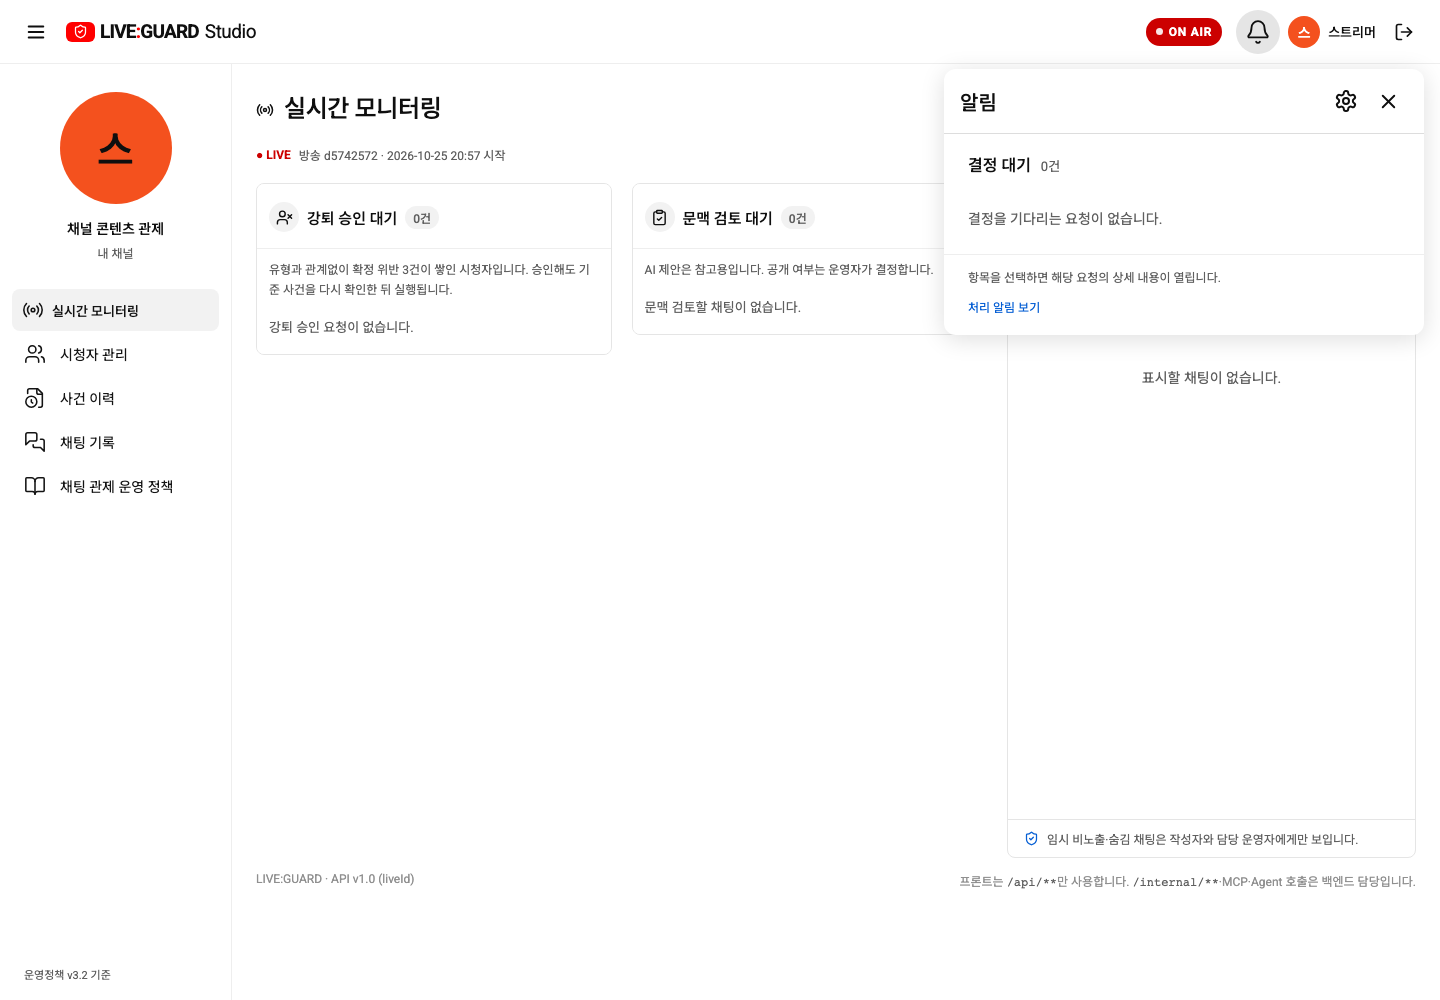
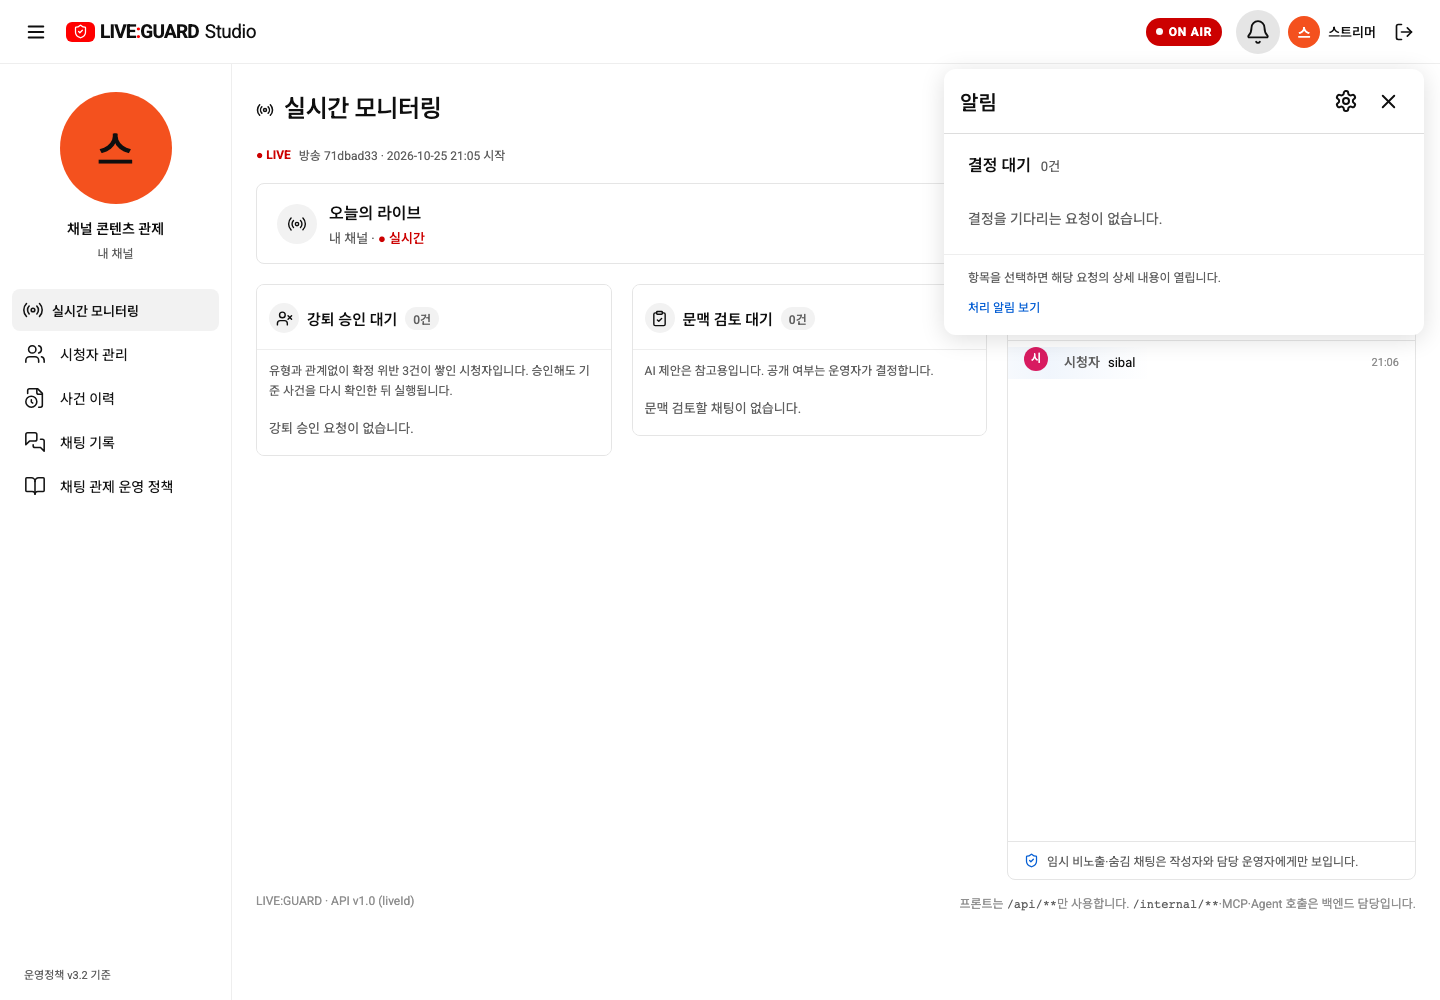
style: move broadcast summary above the monitoring columns

diff --git a/src/StudioScreen.vue b/src/StudioScreen.vue
@@ -363,6 +363,7 @@ const dictRows: { name: string; words: string[]; result: string }[] = [
           <template v-else-if="live">
             <div class="studio-live-line"><span :class="ended ? 'ended' : 'on'">{{ended ? '종료' : '● LIVE'}}</span> 방송 {{live.liveId.slice(0,8)}} · {{asTime(live.startedAt)}} 시작<template v-if="ended"> · 방송이 종료되어 결정할 수 없습니다</template></div>
 
+              <div v-if="page==='monitor'" class="stream-panel card studio-broadcast-summary"><div class="stream-caption"><span class="yt-channel-avatar studio-stream-icon"><Radio :size="20" :stroke-width="1.7"/></span><div><b>{{mock ? '오늘도 게임하는 날! 같이 놀아요 🎮' : '오늘의 라이브'}}</b><small>{{channelName}} · <span class="live-badge">{{ended ? '방송 종료' : '● 실시간'}}</span></small></div></div></div>
             <p v-if="arrivalAnnouncement" class="monitor-arrival-announcement" role="status">{{arrivalAnnouncement}}</p>
             <div v-if="page==='monitor'" class="live-monitoring-grid queue-page">
                 <section v-for="q in monitorQueues" :key="q.kind" class="hitl-section decision-queue" :class="q.kind.toLowerCase()" :aria-label="q.title" @focusin="queueTab=q.kind" @click="queueTab=q.kind">
@@ -407,7 +408,7 @@ const dictRows: { name: string; words: string[]; result: string }[] = [
                   </article>
                 </section>
             <section class="monitor-grid chat-only">
-              <div class="stream-panel card"><div class="stream-caption"><span class="yt-channel-avatar studio-stream-icon"><Radio :size="20" :stroke-width="1.7"/></span><div><b>{{mock ? '오늘도 게임하는 날! 같이 놀아요 🎮' : '오늘의 라이브'}}</b><small>{{channelName}} · <span class="live-badge">{{ended ? '방송 종료' : '● 실시간'}}</span></small></div></div></div>
+
               <div class="chat-panel card"><div class="panel-heading"><h2>실시간 채팅 <ChevronDown :size="17"/></h2><div class="panel-heading-end"><button v-if="feedOn !== null" class="icon-control" :class="{on: feedOn}" :title="feedOn ? '채팅 흐름 일시정지 (MOCK)' : '채팅 흐름 재생 (MOCK)'" :aria-pressed="feedOn" @click="emit('toggleFeed')"><Pause v-if="feedOn" :size="17"/><Play v-else :size="17"/></button><button class="blocked-toggle" :class="{on: filter==='private'}" :aria-pressed="filter==='private'" @click="filter = filter==='all' ? 'private' : 'all'" :title="filter==='all' ? '임시 비노출·숨김 채팅만 보기' : '전체 채팅 보기'">비공개 채팅 <b>{{privateCount}}</b></button></div></div>
                 <div class="scan-wrap"><span class="ai-scan" aria-hidden="true"/><div ref="chatRef" class="chat-list" @scroll.passive="onScroll">
                   <div v-for="m in shownMessages" :key="m.messageId" :data-message-id="m.messageId" class="chat-row" :class="{held: m.visibility==='HELD', hidden: m.visibility==='HIDDEN'}"><span class="chat-avatar" :style="{background: avatarColor(m.authorAlias)}">{{m.authorAlias.slice(0,1)}}</span><span class="chat-line"><b>{{m.authorAlias}}</b><span class="chat-text">{{m.text}}</span></span><span v-if="m.visibility!=='PUBLIC'" class="state-pill" :class="m.visibility.toLowerCase()">{{visibilityLabels[m.visibility]}}</span><time class="chat-time" :datetime="iso(m.sentAt)" :title="asTime(m.sentAt)">{{hourMinute(iso(m.sentAt))}}</time></div>

diff --git a/src/style.css b/src/style.css
@@ -1297,3 +1297,10 @@ code{font-family:'Roboto Mono',ui-monospace,Consolas,monospace}
 
 .sys-shell .sys-layout{min-height:calc(100dvh - 64px)}
 .studio-shell .ai-evidence{background:#fafafa;border-color:#e5e5e5}
+
+.studio-shell .studio-broadcast-summary{margin-bottom:20px}
+.studio-shell .studio-broadcast-summary .stream-caption{padding:16px 20px}
+.studio-shell .studio-broadcast-summary .yt-channel-avatar{width:40px;height:40px;flex:none}
+.studio-shell .studio-broadcast-summary .stream-caption b{white-space:normal;overflow-wrap:anywhere}
+.studio-shell .live-monitoring-grid .monitor-grid.chat-only{grid-template-areas:'chat';grid-template-rows:auto}
+@media(max-width:600px){.studio-shell .studio-broadcast-summary{margin-bottom:16px}.studio-shell .studio-broadcast-summary .stream-caption{padding:14px}}

diff --git a/docs/api-console-parity.md b/docs/api-console-parity.md
@@ -6,14 +6,14 @@
 
 5173번 Vite 개발 서버는 소스 변경을 바로 반영하지만, 3000번은 Docker 안의 정적 빌드를 제공합니다. 이전 3000번 자산에는 종·통합 화면·OFF AIR 코드가 없었습니다. 프론트엔드만 `docker compose build frontend`와 `docker compose up -d --no-deps frontend`로 갱신했습니다. 빌드 소스는 `liveguard-fe`, `VITE_USE_API=true`입니다. BE·Agent·DB는 재시작하지 않았습니다.
 
-현재 3000번 자산은 `/assets/index-BXecjCOp.js`이며 종·통합 화면·OFF AIR 코드가 포함돼 있습니다. 향후 프론트 소스를 수정해도 Docker는 자동 갱신되지 않으므로 3000번 반영을 다시 확인해야 합니다.
+현재 3000번 자산은 `/assets/index-C97-_TRp.js`이며 종·통합 화면·OFF AIR 코드가 포함돼 있습니다. 향후 프론트 소스를 수정해도 Docker는 자동 갱신되지 않으므로 3000번 반영을 다시 확인해야 합니다.
 
 ## 실제 API 화면 체크
 
 | 오늘 변경한 항목 | 확인 결과 |
 | --- | --- |
 | 메뉴 통합 | 실시간 모니터링 한 개, 별도 결정 대기 메뉴 없음 |
-| 3열 | 강퇴 승인 대기 / 문맥 검토 대기 / 방송 정보·채팅 순서로 동시 표시 |
+| 3열 | 상단 방송 정보 아래 강퇴 승인 대기 / 문맥 검토 대기 / 실시간 채팅 순서로 동시 표시 |
 | 종 알림 | 우상단 스트리머 프로필·이름 왼쪽에 종 표시. 대기 0건에서 클릭 시 빈 상세 목록 표시 |
 | 알림 설정 | 톱니바퀴로 기존 알림·단축키 설정 열림 |
 | 정책 문구 | ‘채팅 관제 운영 정책’, v3.2 SP-3.1·A-28 및 CP-3.3 안내 표시 |

diff --git a/docs/unified-live-monitoring.md b/docs/unified-live-monitoring.md
@@ -6,9 +6,11 @@
 
 | 화면 | 배치 |
 | --- | --- |
-| 데스크톱 1200px 이상 | 왼쪽 강퇴 승인 대기 / 가운데 문맥 검토 대기 / 오른쪽 방송 정보·실시간 채팅 |
+| 데스크톱 1200px 이상 | 왼쪽 강퇴 승인 대기 / 가운데 문맥 검토 대기 / 오른쪽 실시간 채팅 |
 | 761–1199px | 강퇴·문맥을 위에 2열로 배치하고 채팅을 아래에 넓게 표시 |
 | 760px 이하 | 강퇴 승인 → 문맥 검토 → 채팅 순서로 세로 배치 |
+
+방송 제목·채널 정보는 3열 전체 위의 공통 상단 카드에 표시합니다.
 
 두 대기열은 각자 한 건씩 펼칩니다. 오래 기다린 순서는 유지하고, 요청이 와도 선택한 결정 값이나 초점을 바꾸지 않습니다. 데스크톱에서는 채팅과 각 대기열을 독립적으로 스크롤하며, 좁은 화면에서는 검토 내용이 페이지 흐름에 따라 펼쳐집니다. 강퇴의 기준 사건·근거·승인/기각 절차는 유지합니다.
 
@@ -59,3 +61,6 @@
 최종 사용자 요청에 따라 OFF AIR를 ON AIR와 같은 둥근 배지·흰 점·글꼴·간격으로 맞추고 배경색만 회색(#707070)으로 변경했습니다. 이전 컬러바·검은 띠·고정폭 글꼴은 제거했습니다. 목업/API 공통 ModeBadge 스타일을 사용하며 MOCK 데이터 표시는 유지합니다. 3000번 Docker도 다시 빌드하고 실제 API 화면을 확인합니다.
 
 ![OFF AIR](evidence/off-air/off-air-gray.png)
+
+
+방송 정보 상단 이동 후 관련 기존 브라우저 테스트 6개·빌드가 통과했고, 3000번 Docker 재빌드 및 실제 API의 종·설정·360/390px를 확인했습니다.
